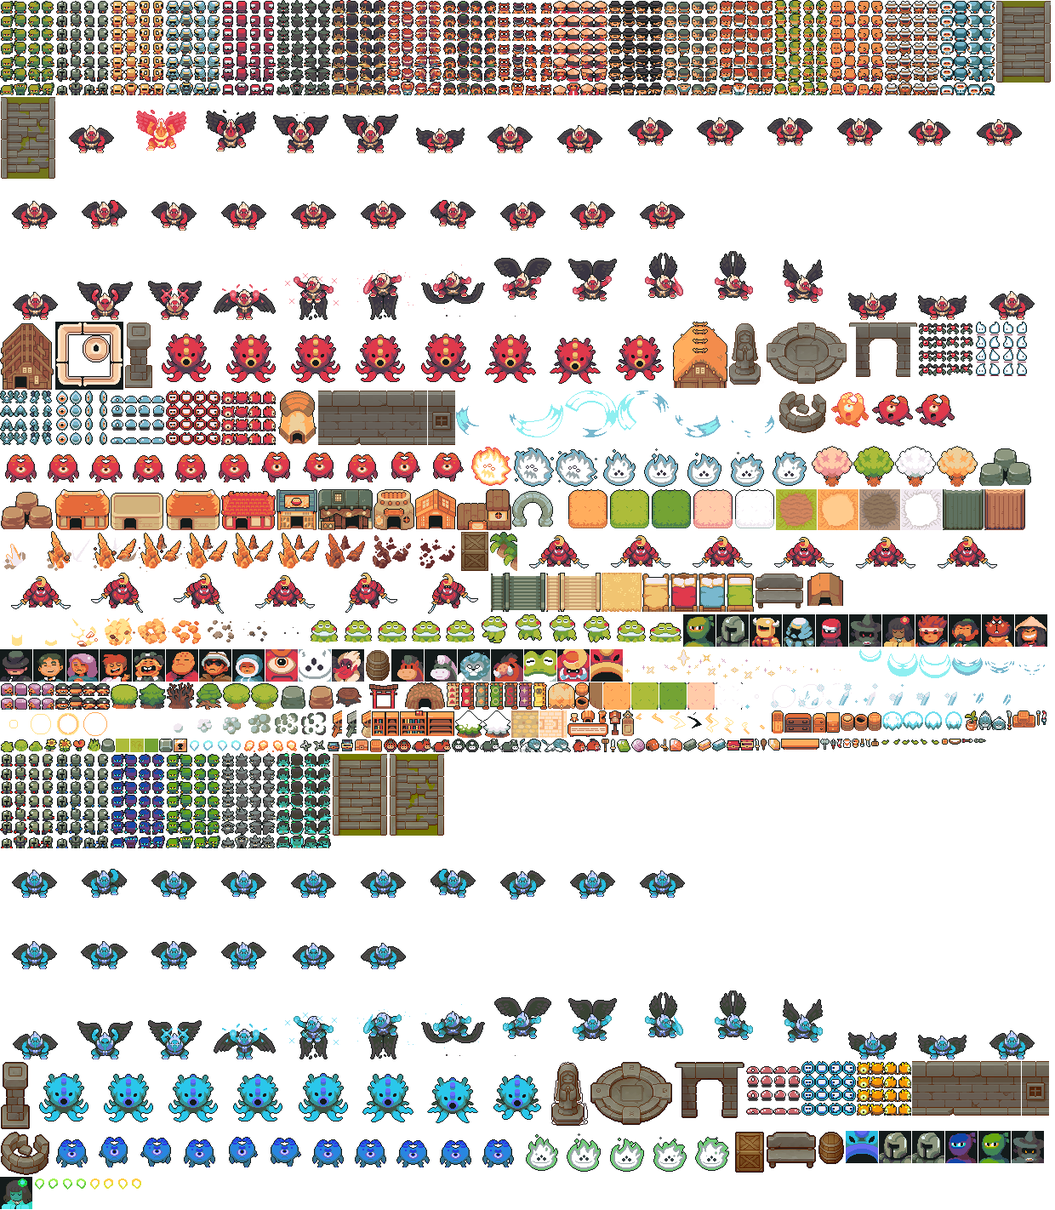
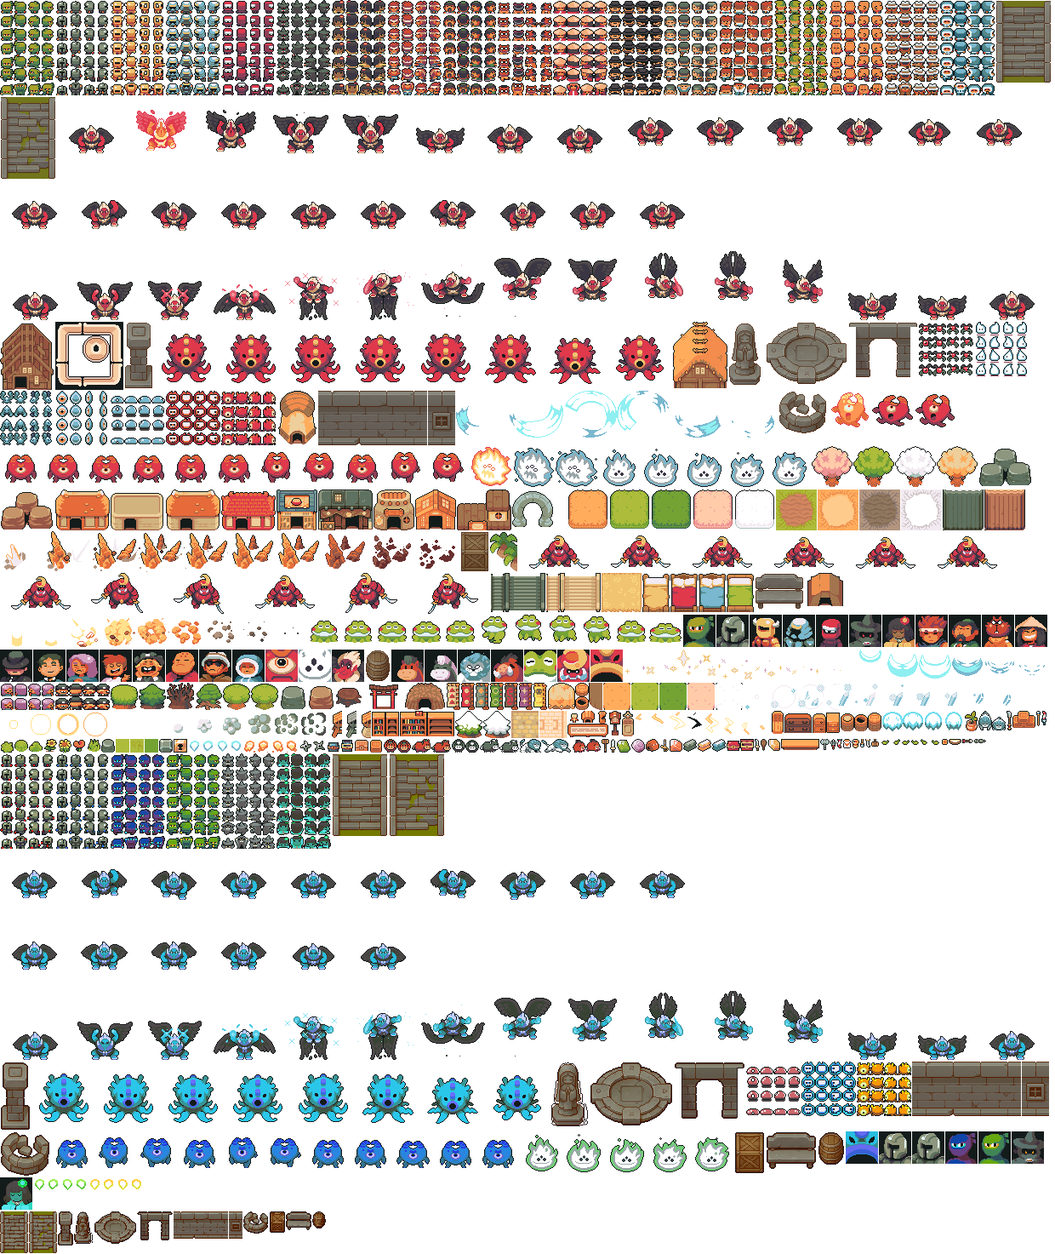
Cité : décors Cainos à l'échelle Ninja Adventure, rues et places pavées, statues et colonnes au pied des escaliers
Claude-Session: https://claude.ai/code/session_01HmK4HGKwe1XnWGQ1fbvQpK

diff --git a/index.html b/index.html
@@ -173,7 +173,7 @@ function cnv(w,h){const o=document.createElement('canvas');o.width=w;o.height=h;
 let seed=1;const srnd=()=>(seed=(seed*16807)%2147483647)/2147483647;
 
 /* ===== Images : Ninja Adventure (CC0) + kit d'interface ===== */
-const AT={"ch_NinjaGreen":[0,0,64,112],"ch_Knight":[65,0,64,112],"ch_KnightGold":[130,0,64,112],"ch_NinjaBlue":[195,0,64,112],"ch_NinjaRed":[260,0,64,112],"ch_NinjaMageBlack":[325,0,64,112],"ch_Princess":[390,0,64,112],"ch_Hunter":[455,0,64,112],"ch_Monk":[520,0,64,112],"ch_MaskRacoon":[585,0,64,112],"ch_Samurai":[650,0,64,112],"ch_Noble":[715,0,64,112],"ch_OldMan":[780,0,64,112],"ch_Boy":[845,0,64,112],"ch_ManGreen":[910,0,64,112],"ch_Monk2":[975,0,64,112],"ch_Inspector":[1040,0,64,112],"ch_Eskimo":[1105,0,64,112],"c_stairs":[390,885,66,98],"c_stairs_m":[457,885,66,98],"bo_TenguRed_Hit":[67,113,656,82],"bo_TenguRed_Idle":[724,113,492,82],"bo_TenguRed_Walk":[0,212,820,82],"bo_TenguRed_Attack":[0,295,1230,82],"h_temple":[0,378,64,80],"int_wall":[65,378,80,80],"c_pillar":[0,1247,36,81],"bo_Squid_Idle":[181,378,304,79],"bo_Squid_Walk":[486,378,304,79],"h_big":[791,378,64,78],"c_statue":[647,1247,45,77],"c_fountain":[693,1247,98,76],"c_arch":[792,1247,84,68],"mo_SpiderRed":[1080,378,64,64],"mo_Spirit":[1145,378,64,64],"mo_BlueBat":[0,459,64,64],"mo_Eye":[65,459,64,64],"mo_Slime":[130,459,64,64],"mo_Skull":[195,459,64,64],"mo_Cyclope":[260,459,64,64],"h_dome":[325,459,48,64],"c_wall":[1072,1247,128,64],"c_wallwin":[1201,1247,32,64],"fx_circ":[536,459,378,55],"c_well":[0,1329,59,53],"bo_DemonCyclop_Hit":[973,459,150,50],"bo_DemonCyclop_Idle":[0,524,250,50],"bo_DemonCyclop_Walk":[251,524,300,50],"bo_GiantSpirit_Hit":[552,524,150,50],"bo_GiantSpirit_Idle":[703,524,250,50],"bigtree_pink":[954,524,48,48],"bigtree_green":[1003,524,48,48],"bigtree_white":[1052,524,48,48],"bigtree_orange":[1101,524,48,48],"rocks_grey":[1150,524,64,48],"rocks_brown":[0,575,64,48],"h_orange":[65,575,64,48],"h_beige":[130,575,64,48],"h_orange2":[195,575,64,48],"h_red":[260,575,64,48],"h_teal":[325,575,48,48],"h_green":[374,575,64,48],"h_kiln":[439,575,48,48],"h_wood":[488,575,48,48],"h_wood2":[537,575,64,48],"arch":[602,575,64,48],"f_orange9":[667,575,48,48],"f_lgreen9":[716,575,48,48],"f_dgreen9":[765,575,48,48],"f_pink9":[814,575,48,48],"f_white9":[863,575,48,48],"road9":[912,575,48,48],"sand9":[961,575,48,48],"cave9":[1010,575,48,48],"snow9":[1059,575,48,48],"cliff_g":[1108,575,48,48],"cliff_o":[1157,575,48,48],"fx_spike":[0,624,540,48],"c_crate":[863,1329,36,50],"palm":[576,624,32,48],"bo_Samurai_Idle":[609,624,576,48],"bo_Samurai_Walk":[0,673,576,48],"stairs_g":[577,673,64,46],"stairs_w":[642,673,64,46],"f_rug":[707,673,47,46],"f_bed_y":[755,673,32,46],"f_bed_r":[788,673,32,46],"f_bed_b":[821,673,32,46],"f_bed_g":[854,673,32,46],"c_bench":[900,1329,60,45],"cave":[946,673,48,40],"fx_expl":[0,722,360,40],"bo_Frog_Idle":[361,722,200,40],"bo_Frog_Jump":[562,722,240,40],"fc_NinjaGreen":[803,722,38,38],"fc_Knight":[842,722,38,38],"fc_KnightGold":[881,722,38,38],"fc_NinjaBlue":[920,722,38,38],"fc_NinjaRed":[959,722,38,38],"fc_NinjaMageBlack":[998,722,38,38],"fc_Princess":[1037,722,38,38],"fc_Hunter":[1076,722,38,38],"fc_Monk":[1115,722,38,38],"fc_MaskRacoon":[1154,722,38,38],"fc_Samurai":[1193,722,38,38],"fc_Noble":[0,763,38,38],"fc_OldMan":[39,763,38,38],"fc_OldWoman":[78,763,38,38],"fc_Boy":[117,763,38,38],"fc_Child":[156,763,38,38],"fc_Monk2":[195,763,38,38],"fc_Inspector":[234,763,38,38],"fc_Eskimo":[273,763,38,38],"bo_DemonCyclop_Faceset":[312,763,38,38],"bo_GiantSpirit_Faceset":[351,763,38,38],"bo_TenguRed_Faceset":[390,763,38,38],"c_pot":[961,1329,32,40],"fc_horse":[460,763,38,38],"fc_horseb":[499,763,38,38],"fc_lion":[538,763,38,38],"fc_boar":[577,763,38,38],"bo_Frog_Faceset":[616,763,38,38],"bo_Samurai_Faceset":[655,763,38,38],"bo_Squid_Faceset":[694,763,38,38],"fx_spark":[733,763,270,35],"fx_arc":[1004,763,228,34],"ch_OldWoman":[0,802,64,32],"ch_Child":[65,802,64,32],"tree_round":[130,802,32,32],"tree_pine":[163,802,32,32],"tree_dead":[196,802,32,32],"tree_trunk":[229,802,32,32],"tree_green2":[262,802,32,32],"tree_green3":[295,802,32,32],"rock_grey":[328,802,32,32],"rock_brown":[361,802,32,32],"stump":[394,802,32,32],"torii":[427,802,48,32],"hut":[476,802,48,32],"banner0":[525,802,16,32],"banner1":[542,802,16,32],"banner2":[559,802,16,32],"banner3":[576,802,16,32],"banner4":[593,802,16,32],"banner5":[610,802,16,32],"banner6":[627,802,16,32],"pots":[644,802,64,32],"f_orange":[709,802,32,32],"f_lgreen":[742,802,32,32],"f_dgreen":[775,802,32,32],"f_pink":[808,802,32,32],"f_white":[841,802,32,32],"fx_ice":[874,802,320,32],"fx_circle":[0,835,192,32],"fx_smoke":[193,835,192,32],"tower_w":[386,835,16,32],"tower_g":[403,835,16,32],"tower_b":[420,835,16,32],"f_books":[437,835,32,32],"f_shelf":[470,835,64,32],"tree_snow":[535,835,32,32],"pine_snow":[568,835,32,32],"int_floor":[601,835,32,32],"int_floor2":[634,835,32,32],"f_bench":[667,835,48,31],"f_lamp":[716,835,14,30],"f_clock":[731,835,14,30],"fx_thunder":[746,835,160,28],"f_wardrobe":[907,835,14,27],"f_drawer":[922,835,32,26],"f_cabinet":[955,835,32,26],"barrels":[988,835,48,24],"pr_big":[1037,835,96,24],"f_plant":[1134,835,15,24],"m_lion":[1150,835,32,23],"ic_Lance":[1183,835,6,23],"f_sofa":[1190,835,27,20],"ic_MagicWand":[1218,835,5,18],"ic_Sword":[1224,835,6,17],"bush1":[0,868,16,16],"bush2":[17,868,16,16],"bush3":[34,868,16,16],"flower_y":[51,868,16,16],"flower_o":[68,868,16,16],"flower_r":[85,868,16,16],"grass_tuft":[102,868,16,16],"rock_grey_s":[119,868,16,16],"grass":[136,868,16,16],"grass2":[153,868,16,16],"grassd":[170,868,16,16],"block":[187,868,16,16],"lockdoor":[204,868,16,16],"pr_energy":[221,868,64,16],"pr_fire":[286,868,64,16],"pr_shuri":[351,868,32,16],"i_chest":[384,868,32,16],"f_chest":[417,868,16,16],"f_jar":[434,868,16,16],"m_horse":[451,868,32,16],"m_horse_s":[484,868,46,16],"m_horseb":[531,868,32,16],"m_horseb_s":[564,868,46,16],"m_lion_s":[611,868,60,16],"m_boar":[672,868,34,16],"ic_Hammer":[707,868,9,16],"ic_BigSword":[717,868,7,16],"ic_GemGreen":[725,868,16,16],"ic_GemPurple":[742,868,16,16],"ic_Bag":[759,868,16,16],"ic_Rapier":[776,868,10,15],"ic_GemRed":[787,868,15,15],"ic_BarIron":[803,868,16,15],"ic_BarGold":[820,868,16,15],"ic_BarMithril":[837,868,16,15],"i_bigchest":[854,868,32,14],"ic_Katana":[887,868,6,14],"ic_Club":[894,868,8,14],"ic_GemYellow":[903,868,14,14],"f_table":[918,868,45,13],"ic_Axe":[964,868,11,13],"ic_Sai":[976,868,7,13],"w_sword":[984,868,6,11],"i_life":[991,868,9,11],"ic_Cup":[1001,868,9,11],"w_wand":[1011,868,5,10],"w_katana":[1017,868,6,10],"w_hammer":[1024,868,9,9],"p_leaf":[1034,868,72,7],"i_coin":[1107,868,7,7],"ic_Bow":[1115,868,15,7],"pr_arrow":[1131,868,13,5],"pr_kunai":[1145,868,14,5],"ch_KnightRuby":[0,885,64,112],"ch_KnightAzur":[65,885,64,112],"ch_NinjaGreenPourpre":[130,885,64,112],"ch_NinjaGreenCendre":[195,885,64,112],"ch_NinjaMageBlackIvoire":[260,885,64,112],"ch_PrincessJade":[325,885,64,112],"bo_TenguRed_Walk_v":[0,998,820,82],"bo_TenguRed_Idle_v":[0,1081,492,82],"bo_TenguRed_Attack_v":[0,1164,1230,82],"bo_Squid_Idle_ice":[37,1247,304,79],"bo_Squid_Walk_ice":[342,1247,304,79],"mo_Slime_e":[877,1247,64,64],"mo_Skull_e":[942,1247,64,64],"mo_Cyclope_e":[1007,1247,64,64],"bo_DemonCyclop_Walk_v":[60,1329,300,50],"bo_DemonCyclop_Idle_v":[361,1329,250,50],"bo_GiantSpirit_Idle_v":[612,1329,250,50],"fc_Squid_ice":[994,1329,38,38],"fc_KnightRuby":[1033,1329,38,38],"fc_KnightAzur":[1072,1329,38,38],"fc_NinjaGreenPourpre":[1111,1329,38,38],"fc_NinjaGreenCendre":[1150,1329,38,38],"fc_NinjaMageBlackIvoire":[1189,1329,38,38],"fc_PrincessJade":[0,1383,38,38],"pr_poison":[39,1383,64,16],"pr_para":[104,1383,64,16]};
+const AT={"ch_NinjaGreen":[0,0,64,112],"ch_Knight":[65,0,64,112],"ch_KnightGold":[130,0,64,112],"ch_NinjaBlue":[195,0,64,112],"ch_NinjaRed":[260,0,64,112],"ch_NinjaMageBlack":[325,0,64,112],"ch_Princess":[390,0,64,112],"ch_Hunter":[455,0,64,112],"ch_Monk":[520,0,64,112],"ch_MaskRacoon":[585,0,64,112],"ch_Samurai":[650,0,64,112],"ch_Noble":[715,0,64,112],"ch_OldMan":[780,0,64,112],"ch_Boy":[845,0,64,112],"ch_ManGreen":[910,0,64,112],"ch_Monk2":[975,0,64,112],"ch_Inspector":[1040,0,64,112],"ch_Eskimo":[1105,0,64,112],"c_stairs":[390,885,66,98],"c_stairs_m":[457,885,66,98],"bo_TenguRed_Hit":[67,113,656,82],"bo_TenguRed_Idle":[724,113,492,82],"bo_TenguRed_Walk":[0,212,820,82],"bo_TenguRed_Attack":[0,295,1230,82],"h_temple":[0,378,64,80],"int_wall":[65,378,80,80],"c_pillar":[0,1247,36,81],"bo_Squid_Idle":[181,378,304,79],"bo_Squid_Walk":[486,378,304,79],"h_big":[791,378,64,78],"c_statue":[647,1247,45,77],"c_fountain":[693,1247,98,76],"c_arch":[792,1247,84,68],"mo_SpiderRed":[1080,378,64,64],"mo_Spirit":[1145,378,64,64],"mo_BlueBat":[0,459,64,64],"mo_Eye":[65,459,64,64],"mo_Slime":[130,459,64,64],"mo_Skull":[195,459,64,64],"mo_Cyclope":[260,459,64,64],"h_dome":[325,459,48,64],"c_wall":[1072,1247,128,64],"c_wallwin":[1201,1247,32,64],"fx_circ":[536,459,378,55],"c_well":[0,1329,59,53],"bo_DemonCyclop_Hit":[973,459,150,50],"bo_DemonCyclop_Idle":[0,524,250,50],"bo_DemonCyclop_Walk":[251,524,300,50],"bo_GiantSpirit_Hit":[552,524,150,50],"bo_GiantSpirit_Idle":[703,524,250,50],"bigtree_pink":[954,524,48,48],"bigtree_green":[1003,524,48,48],"bigtree_white":[1052,524,48,48],"bigtree_orange":[1101,524,48,48],"rocks_grey":[1150,524,64,48],"rocks_brown":[0,575,64,48],"h_orange":[65,575,64,48],"h_beige":[130,575,64,48],"h_orange2":[195,575,64,48],"h_red":[260,575,64,48],"h_teal":[325,575,48,48],"h_green":[374,575,64,48],"h_kiln":[439,575,48,48],"h_wood":[488,575,48,48],"h_wood2":[537,575,64,48],"arch":[602,575,64,48],"f_orange9":[667,575,48,48],"f_lgreen9":[716,575,48,48],"f_dgreen9":[765,575,48,48],"f_pink9":[814,575,48,48],"f_white9":[863,575,48,48],"road9":[912,575,48,48],"sand9":[961,575,48,48],"cave9":[1010,575,48,48],"snow9":[1059,575,48,48],"cliff_g":[1108,575,48,48],"cliff_o":[1157,575,48,48],"fx_spike":[0,624,540,48],"c_crate":[863,1329,36,50],"palm":[576,624,32,48],"bo_Samurai_Idle":[609,624,576,48],"bo_Samurai_Walk":[0,673,576,48],"stairs_g":[577,673,64,46],"stairs_w":[642,673,64,46],"f_rug":[707,673,47,46],"f_bed_y":[755,673,32,46],"f_bed_r":[788,673,32,46],"f_bed_b":[821,673,32,46],"f_bed_g":[854,673,32,46],"c_bench":[900,1329,60,45],"cave":[946,673,48,40],"fx_expl":[0,722,360,40],"bo_Frog_Idle":[361,722,200,40],"bo_Frog_Jump":[562,722,240,40],"fc_NinjaGreen":[803,722,38,38],"fc_Knight":[842,722,38,38],"fc_KnightGold":[881,722,38,38],"fc_NinjaBlue":[920,722,38,38],"fc_NinjaRed":[959,722,38,38],"fc_NinjaMageBlack":[998,722,38,38],"fc_Princess":[1037,722,38,38],"fc_Hunter":[1076,722,38,38],"fc_Monk":[1115,722,38,38],"fc_MaskRacoon":[1154,722,38,38],"fc_Samurai":[1193,722,38,38],"fc_Noble":[0,763,38,38],"fc_OldMan":[39,763,38,38],"fc_OldWoman":[78,763,38,38],"fc_Boy":[117,763,38,38],"fc_Child":[156,763,38,38],"fc_Monk2":[195,763,38,38],"fc_Inspector":[234,763,38,38],"fc_Eskimo":[273,763,38,38],"bo_DemonCyclop_Faceset":[312,763,38,38],"bo_GiantSpirit_Faceset":[351,763,38,38],"bo_TenguRed_Faceset":[390,763,38,38],"c_pot":[961,1329,32,40],"fc_horse":[460,763,38,38],"fc_horseb":[499,763,38,38],"fc_lion":[538,763,38,38],"fc_boar":[577,763,38,38],"bo_Frog_Faceset":[616,763,38,38],"bo_Samurai_Faceset":[655,763,38,38],"bo_Squid_Faceset":[694,763,38,38],"fx_spark":[733,763,270,35],"fx_arc":[1004,763,228,34],"ch_OldWoman":[0,802,64,32],"ch_Child":[65,802,64,32],"tree_round":[130,802,32,32],"tree_pine":[163,802,32,32],"tree_dead":[196,802,32,32],"tree_trunk":[229,802,32,32],"tree_green2":[262,802,32,32],"tree_green3":[295,802,32,32],"rock_grey":[328,802,32,32],"rock_brown":[361,802,32,32],"stump":[394,802,32,32],"torii":[427,802,48,32],"hut":[476,802,48,32],"banner0":[525,802,16,32],"banner1":[542,802,16,32],"banner2":[559,802,16,32],"banner3":[576,802,16,32],"banner4":[593,802,16,32],"banner5":[610,802,16,32],"banner6":[627,802,16,32],"pots":[644,802,64,32],"f_orange":[709,802,32,32],"f_lgreen":[742,802,32,32],"f_dgreen":[775,802,32,32],"f_pink":[808,802,32,32],"f_white":[841,802,32,32],"fx_ice":[874,802,320,32],"fx_circle":[0,835,192,32],"fx_smoke":[193,835,192,32],"tower_w":[386,835,16,32],"tower_g":[403,835,16,32],"tower_b":[420,835,16,32],"f_books":[437,835,32,32],"f_shelf":[470,835,64,32],"tree_snow":[535,835,32,32],"pine_snow":[568,835,32,32],"int_floor":[601,835,32,32],"int_floor2":[634,835,32,32],"f_bench":[667,835,48,31],"f_lamp":[716,835,14,30],"f_clock":[731,835,14,30],"fx_thunder":[746,835,160,28],"f_wardrobe":[907,835,14,27],"f_drawer":[922,835,32,26],"f_cabinet":[955,835,32,26],"barrels":[988,835,48,24],"pr_big":[1037,835,96,24],"f_plant":[1134,835,15,24],"m_lion":[1150,835,32,23],"ic_Lance":[1183,835,6,23],"f_sofa":[1190,835,27,20],"ic_MagicWand":[1218,835,5,18],"ic_Sword":[1224,835,6,17],"bush1":[0,868,16,16],"bush2":[17,868,16,16],"bush3":[34,868,16,16],"flower_y":[51,868,16,16],"flower_o":[68,868,16,16],"flower_r":[85,868,16,16],"grass_tuft":[102,868,16,16],"rock_grey_s":[119,868,16,16],"grass":[136,868,16,16],"grass2":[153,868,16,16],"grassd":[170,868,16,16],"block":[187,868,16,16],"lockdoor":[204,868,16,16],"pr_energy":[221,868,64,16],"pr_fire":[286,868,64,16],"pr_shuri":[351,868,32,16],"i_chest":[384,868,32,16],"f_chest":[417,868,16,16],"f_jar":[434,868,16,16],"m_horse":[451,868,32,16],"m_horse_s":[484,868,46,16],"m_horseb":[531,868,32,16],"m_horseb_s":[564,868,46,16],"m_lion_s":[611,868,60,16],"m_boar":[672,868,34,16],"ic_Hammer":[707,868,9,16],"ic_BigSword":[717,868,7,16],"ic_GemGreen":[725,868,16,16],"ic_GemPurple":[742,868,16,16],"ic_Bag":[759,868,16,16],"ic_Rapier":[776,868,10,15],"ic_GemRed":[787,868,15,15],"ic_BarIron":[803,868,16,15],"ic_BarGold":[820,868,16,15],"ic_BarMithril":[837,868,16,15],"i_bigchest":[854,868,32,14],"ic_Katana":[887,868,6,14],"ic_Club":[894,868,8,14],"ic_GemYellow":[903,868,14,14],"f_table":[918,868,45,13],"ic_Axe":[964,868,11,13],"ic_Sai":[976,868,7,13],"w_sword":[984,868,6,11],"i_life":[991,868,9,11],"ic_Cup":[1001,868,9,11],"w_wand":[1011,868,5,10],"w_katana":[1017,868,6,10],"w_hammer":[1024,868,9,9],"p_leaf":[1034,868,72,7],"i_coin":[1107,868,7,7],"ic_Bow":[1115,868,15,7],"pr_arrow":[1131,868,13,5],"pr_kunai":[1145,868,14,5],"ch_KnightRuby":[0,885,64,112],"ch_KnightAzur":[65,885,64,112],"ch_NinjaGreenPourpre":[130,885,64,112],"ch_NinjaGreenCendre":[195,885,64,112],"ch_NinjaMageBlackIvoire":[260,885,64,112],"ch_PrincessJade":[325,885,64,112],"bo_TenguRed_Walk_v":[0,998,820,82],"bo_TenguRed_Idle_v":[0,1081,492,82],"bo_TenguRed_Attack_v":[0,1164,1230,82],"bo_Squid_Idle_ice":[37,1247,304,79],"bo_Squid_Walk_ice":[342,1247,304,79],"mo_Slime_e":[877,1247,64,64],"mo_Skull_e":[942,1247,64,64],"mo_Cyclope_e":[1007,1247,64,64],"bo_DemonCyclop_Walk_v":[60,1329,300,50],"bo_DemonCyclop_Idle_v":[361,1329,250,50],"bo_GiantSpirit_Idle_v":[612,1329,250,50],"fc_Squid_ice":[994,1329,38,38],"fc_KnightRuby":[1033,1329,38,38],"fc_KnightAzur":[1072,1329,38,38],"fc_NinjaGreenPourpre":[1111,1329,38,38],"fc_NinjaGreenCendre":[1150,1329,38,38],"fc_NinjaMageBlackIvoire":[1189,1329,38,38],"fc_PrincessJade":[0,1383,38,38],"pr_poison":[39,1383,64,16],"pr_para":[104,1383,64,16],"c_stairs_h":[0,1423,33,49],"c_stairs_m_h":[34,1423,33,49],"c_pillar_h":[68,1423,18,41],"c_statue_h":[87,1423,23,39],"c_fountain_h":[111,1423,49,38],"c_arch_h":[161,1423,42,34],"c_wall_h":[204,1423,64,32],"c_wallwin_h":[269,1423,16,32],"c_well_h":[286,1423,30,27],"c_crate_h":[317,1423,18,25],"c_bench_h":[336,1423,30,23],"c_pot_h":[367,1423,16,20]};
[1 lines of base64/hex data omitted]
 const ready=i=>i.complete&&i.naturalWidth>0;
 const tmpC=cnv(128,128),tmpX=tmpC.getContext('2d');
@@ -354,48 +354,60 @@ function grassBg(w,h,sd){const o=cnv(w,h),c=o.getContext('2d');seed=sd;
   for(let i=0;i<w*h/2200;i++){const n=['flower_y','flower_o','flower_r','grass_tuft','bush1','grass_tuft'][srnd()*6|0];sub(c,n,0,0,16,16,srnd()*w|0,srnd()*h|0)}
   return{o,c}}
 const TW=720,TH=1040;
-/* murs de soutènement en pierre (Cainos) : hauteur 64, escaliers de 66 de large */
-const CLIFFS=[{y:300,gaps:[[327,393]]},{y:640,gaps:[[87,153],[327,393],[567,633]]}];
+/* murs de soutènement (Cainos ramené à l'échelle Ninja Adventure : _h = demi-taille) : hauteur 32, escaliers de 33 */
+const CLIFFS=[{y:300,gaps:[[344,377]]},{y:640,gaps:[[104,137],[344,377],[584,617]]}];
 function castleBox(l){return l>=4?{w:250,h:90}:l>=3?{w:236,h:80}:l>=2?{w:110,h:52}:{w:52,h:50}}
-function pave(c,x,y,w,hh){c.fillStyle='#7d786c';c.fillRect(x,y,w,hh);seed=3;for(let yy=y;yy<y+hh;yy+=6)for(let xx=x+((yy-y)/6%2?-4:0);xx<x+w;xx+=9){const v=srnd();c.fillStyle=v<.33?'#b9b3a5':v<.66?'#a7a193':'#c7c1b2';c.fillRect(Math.max(x,xx),yy,Math.min(8,x+w-Math.max(x,xx)),5)}}
+/* pavés de la cité : dalles irrégulières, joints sombres */
+function pave(c,x,y,w,hh,sd){c.fillStyle='#6f695e';c.fillRect(x,y,w,hh);seed=sd||3;
+  for(let yy=y,r=0;yy<y+hh;yy+=7,r++)for(let xx=x-(r%2?5:0);xx<x+w;){const bw=8+(srnd()*5|0),v=srnd();const a=Math.max(x,xx),b=Math.min(x+w,xx+bw-1);
+    if(b>a){c.fillStyle=v<.3?'#a9a294':v<.6?'#9c9588':v<.9?'#b4ad9f':'#8e8a7c';c.fillRect(a,yy,b-a,Math.min(6,y+hh-yy));c.fillStyle='rgba(255,255,255,.12)';c.fillRect(a,yy,b-a,1)}xx+=bw}
+  c.fillStyle='rgba(0,0,0,.18)';c.fillRect(x,y,w,1);c.fillRect(x,y+hh-1,w,1);c.fillRect(x,y,1,hh);c.fillRect(x+w-1,y,1,hh)}
+function cityGrass(w,h,sd){const o=cnv(w,h),c=o.getContext('2d');seed=sd;
+  for(let y=0;y<h;y+=16)for(let x=0;x<w;x+=16)sub(c,srnd()<.85?'grass':'grass2',0,0,16,16,x,y);
+  for(let i=0;i<w*h/9000;i++){const n=['grass_tuft','flower_y','grass_tuft','flower_r'][srnd()*4|0];sub(c,n,0,0,16,16,srnd()*w|0,srnd()*h|0)}
+  return{o,c}}
 function stoneTower(c,x,y,h,roof){px(c,'rgba(0,0,0,.3)',x-8,y-1,18,3);px(c,'#4a4640',x-9,y-h-1,18,h+1);px(c,'#a39e92',x-8,y-h,16,h);for(let yy=y-h+5;yy<y;yy+=5)px(c,'#8a857a',x-8,yy,16,1);px(c,'#2e2a26',x-2,y-h+8,4,6);
   if(roof){for(let k=0;k<10;k+=2)px(c,k%4?roof:shade(roof,.8),x-10+k,y-h-2-k*1.2,20-k*2,3)}else for(let xx=x-9;xx<x+8;xx+=6){px(c,'#4a4640',xx,y-h-5,5,5);px(c,'#bdb8ab',xx+1,y-h-4,3,4)}}
 function crenWall(c,x0,x1,yb,h){const top=yb-h;px(c,'#4a4640',x0-1,top-1,x1-x0+2,h+2);px(c,'#a39e92',x0,top,x1-x0,h);
   for(let y=top+5;y<yb;y+=5)px(c,'#8a857a',x0,y,x1-x0,1);for(let y=top,r=0;y<yb;y+=5,r++)for(let x=x0+(r%2?4:0);x<x1;x+=8)px(c,'#8a857a',x,y,1,5);
   for(let x=x0;x<x1-3;x+=8){px(c,'#4a4640',x-1,top-5,6,6);px(c,'#bdb8ab',x,top-4,4,4)}px(c,'rgba(0,0,0,.25)',x0,yb,x1-x0,3)}
 function townBg(){
-  const {o,c}=grassBg(TW,TH,11);
-  const road=(x,y,w,h)=>tileFill(c,'road9',16,16,x,y,w,h);
-  road(344,366,32,276);road(344,706,32,334);
-  road(80,592,560,16);road(0,942,648,16);
-  road(162,568,16,24);road(542,568,16,24);road(162,928,16,14);road(542,928,16,14);
-  road(112,606,16,36);road(592,606,16,36);road(112,706,16,238);road(592,706,16,238);
-  pave(c,256,760,208,140);
-  pave(c,200,244,320,58);
-  for(const cl of CLIFFS){c.fillStyle='rgba(0,0,0,.28)';c.fillRect(0,cl.y+62,TW,6);
-    for(let x=0,i=0;x<TW;i++){const win=i%4===2;sub(c,win?'c_wallwin':'c_wall',0,0,win?32:128,64,x,cl.y);x+=win?32:128}
-    for(const [a] of cl.gaps)sub(c,cl.y<500?'c_stairs':'c_stairs_m',0,0,66,98,a,cl.y-32)}
+  const {o,c}=cityGrass(TW,TH,11);
+  const st=(x,y,w,h)=>pave(c,x,y,w,h,x*7+y);
+  /* rues pavées */
+  st(336,300,48,340);st(336,672,48,368);
+  st(72,584,576,28);st(64,936,592,28);
+  st(152,560,32,24);st(536,560,32,24);st(152,920,32,16);st(536,920,32,16);
+  st(104,612,32,28);st(584,612,32,28);st(104,672,32,264);st(584,672,32,264);
+  /* place de la fontaine et parvis du château */
+  st(248,748,224,156);st(184,226,352,74);
+  for(const cl of CLIFFS){c.fillStyle='rgba(0,0,0,.28)';c.fillRect(0,cl.y+31,TW,4);
+    for(let x=0,i=0;x<TW;i++){const win=i%4===2;sub(c,win?'c_wallwin_h':'c_wall_h',0,0,win?16:64,32,x,cl.y);x+=win?16:64}
+    for(const [a] of cl.gaps)sub(c,cl.y<500?'c_stairs_h':'c_stairs_m_h',0,0,33,49,a,cl.y-16)}
   return o;
 }
 function buildTown(){
   const w={kind:'town',name:'',w:TW,h:TH,bgFn:townBg,bg:null,solids:[],trig:[],enemies:[],boss:null,props:[],folk:[]};
-  for(const cl of CLIFFS){let x0=0;for(const [a,b] of cl.gaps){w.solids.push({x:x0,y:cl.y+2,w:a-x0+4,h:60});w.solids.push({x:a,y:cl.y-30,w:5,h:92},{x:b-5,y:cl.y-30,w:5,h:92});x0=b-4}w.solids.push({x:x0,y:cl.y+2,w:TW-x0,h:60})}
+  for(const cl of CLIFFS){let x0=0;for(const [a,b] of cl.gaps){w.solids.push({x:x0,y:cl.y+1,w:a-x0+2,h:30});w.solids.push({x:a,y:cl.y-15,w:3,h:46},{x:b-3,y:cl.y-15,w:3,h:46});x0=b-2}w.solids.push({x:x0,y:cl.y+1,w:TW-x0,h:30})}
   for(const k in TSLOT){const [x,y]=TSLOT[k],l=S.bld[k];
     if(k==='hall'){const d=castleBox(l);w.solids.push({x:x-d.w/2,y:y-34,w:d.w,h:32})}
     else if(l&&bspr(k,l)!=='torii'){const d=bdim(k,l);w.solids.push({x:x-d.w/2+3,y:y-d.h*.55,w:d.w-6,h:d.h*.55-2})}
     w.trig.push({kind:'bld',k,x,y:y+8,r:18});}
-  const prop=(n,x,y,sol)=>{w.props.push({type:'spr',n,x,y});if(sol)w.solids.push({x:x-sol[0]/2,y:y-sol[1],w:sol[0],h:sol[1]})};
-  prop('c_fountain',360,834,[80,30]);prop('c_bench',290,880,[50,8]);prop('c_bench',430,880,[50,8]);prop('c_well',230,790,[40,14]);prop('c_crate',500,792,[26,10]);prop('c_pot',520,800,[16,8]);
-  prop('c_statue',306,404,[26,10]);prop('c_statue',414,404,[26,10]);
-  for(const x of [140,220,500,580])prop('c_pillar',x,632,[20,8]);
-  if(S.bld.hall>=3)for(const x of [216,264,456,504])prop('c_pillar',x,292,[20,8]);
-  if(S.bld.hall>=5){w.props.push({type:'spr',n:'c_arch',x:360,y:298});w.solids.push({x:319,y:288,w:14,h:10},{x:387,y:288,w:14,h:10})}
-  w.lamps=[];for(const y of [400,480,560,720,800,980])for(const x of [334,386])w.lamps.push({x,y});for(const x of [100,240,480,620])w.lamps.push({x,y:590},{x,y:940});
-  w.trig.push({kind:'exit',to:'plaine',x:360,y:1036,r:22,auto:true},{kind:'exit',to:'estates',x:6,y:950,r:20,auto:true});
+  const prop=(n,x,y,sol)=>{w.props.push({type:'spr',n:n+'_h',x,y});if(sol)w.solids.push({x:x-sol[0]/2,y:y-sol[1],w:sol[0],h:sol[1]})};
+  /* place : fontaine, bancs, puits, étals */
+  prop('c_fountain',360,840,[44,16]);prop('c_bench',318,882,[26,6]);prop('c_bench',402,882,[26,6]);prop('c_bench',318,800,[26,6]);prop('c_bench',402,800,[26,6]);
+  prop('c_well',270,770,[24,8]);prop('c_crate',452,772,[14,6]);prop('c_pot',466,782,[10,5]);prop('c_pot',440,784,[10,5]);
+  /* statues au pied de l'escalier du château, colonnes au pied des escaliers latéraux */
+  prop('c_statue',326,356,[16,6]);prop('c_statue',394,356,[16,6]);
+  for(const x of [96,145,576,625])prop('c_pillar',x,696,[12,5]);
+  prop('c_statue',326,700,[16,6]);prop('c_statue',394,700,[16,6]);
+  if(S.bld.hall>=3)for(const x of [200,232,488,520])prop('c_pillar',x,290,[12,5]);
+  if(S.bld.hall>=5){w.props.push({type:'spr',n:'c_arch_h',x:360,y:292});w.solids.push({x:339,y:284,w:8,h:8},{x:373,y:284,w:8,h:8})}
+  w.trig.push({kind:'exit',to:'field',x:360,y:1036,r:22,auto:true});
   seed=5;for(let i=0;i<150;i++){const x=srnd()*TW|0,y=srnd()*TH|0;
-    if(x>70&&x<650)continue;if(CLIFFS.some(c=>y>c.y-36&&y<c.y+72))continue;if(Math.abs(y-600)<24||Math.abs(y-950)<24)continue;
+    if(x>70&&x<650)continue;if(CLIFFS.some(c=>y>c.y-30&&y<c.y+50))continue;if(Math.abs(y-598)<24||Math.abs(y-950)<24)continue;
     w.props.push({type:'spr',n:['bigtree_green','tree_round','bigtree_pink','tree_pine','tree_green2'][srnd()*5|0],x,y});w.solids.push({x:x-4,y:y-4,w:8,h:5})}
-  for(const [x,y] of [[60,250],[660,250],[40,120],[680,140],[150,180],[570,180]]){w.props.push({type:'spr',n:'bigtree_pink',x,y});w.solids.push({x:x-4,y:y-4,w:8,h:5})}
+  for(const [x,y] of [[60,250],[660,250],[40,120],[680,140],[150,180],[570,180],[110,470],[610,470],[250,470],[470,470]]){w.props.push({type:'spr',n:'bigtree_pink',x,y});w.solids.push({x:x-4,y:y-4,w:8,h:5})}
   const n=S.bld.hall*3+S.bld.marche*2;for(let i=0;i<n;i++){const f={x:360,y:950,tx:0,ty:0,ter:i%3?1:0,look:FOLK[i%FOLK.length],sp:rnd(12,20),fx:1,fy:0};pickFolk(f);f.x=f.tx;f.y=f.ty;pickFolk(f);w.folk.push(f)}
   return w;
 }
@@ -403,7 +415,7 @@ function pickFolk(f){const r=Math.random();
   if(f.ter===0){if(r<.6){f.tx=rnd(90,630);f.ty=rnd(594,604)}else{f.tx=rnd(348,372);f.ty=rnd(380,630)}}
   else{if(r<.45){f.tx=rnd(80,640);f.ty=rnd(944,954)}else if(r<.75){f.tx=rnd(348,372);f.ty=rnd(712,1020)}else{f.tx=rnd(266,454);f.ty=rnd(862,896)}}}
 function drawCastle(c,x,y,l,t){
-  if(l<=1){spr(c,'h_wood',x,y+2);spr(c,'c_crate',x+40,y+2,{sc:.6});spr(c,'barrels',x-40,y+2,{sc:.7});return}
+  if(l<=1){spr(c,'h_wood',x,y+2);spr(c,'c_crate_h',x+40,y+2);spr(c,'barrels',x-40,y+2,{sc:.7});return}
   if(l===2){stoneTower(c,x-46,y,30,'#8a3b2e');stoneTower(c,x+46,y,30,'#8a3b2e');spr(c,'h_orange2',x,y+2);return}
   const W=castleBox(l).w;
   crenWall(c,x-W/2+8,x-34,y-4,24);crenWall(c,x+34,x+W/2-8,y-4,24);
@@ -415,8 +427,8 @@ function drawCastle(c,x,y,l,t){
 }
 function drawWalls(c){
   const hl=S.bld.hall;
-  if(hl>=3){crenWall(c,16,323,300,10);crenWall(c,397,704,300,10)}
-  if(hl>=4){crenWall(c,16,83,640,10);crenWall(c,157,323,640,10);crenWall(c,397,563,640,10);crenWall(c,637,704,640,10)}
+  if(hl>=3){crenWall(c,16,340,300,8);crenWall(c,381,704,300,8)}
+  if(hl>=4){crenWall(c,16,100,640,8);crenWall(c,141,340,640,8);crenWall(c,381,580,640,8);crenWall(c,621,704,640,8)}
   if(hl>=2){crenWall(c,8,16,1040,330);crenWall(c,704,712,1040,330);crenWall(c,8,328,1038,14);crenWall(c,392,712,1038,14);stoneTower(c,318,1042,34,hl>=4?'#3b5f8a':null);stoneTower(c,402,1042,34,hl>=4?'#3b5f8a':null)}
   else{px(c,'#6a4a2a',386,1010,2,14);px(c,'#a07a4a',378,1004,18,8)}
 }

diff --git a/sw.js b/sw.js
@@ -1,5 +1,5 @@
 // Réseau d'abord (toujours la dernière version), cache en secours hors ligne.
-const C='cendre-v6';
+const C='cendre-v7';
 self.addEventListener('install',e=>{self.skipWaiting();e.waitUntil(caches.open(C).then(c=>c.addAll(['./','index.html','atlas.png','manifest.webmanifest']).catch(()=>{})))});
 self.addEventListener('activate',e=>e.waitUntil(caches.keys().then(ks=>Promise.all(ks.filter(k=>k!==C).map(k=>caches.delete(k)))).then(()=>self.clients.claim())));
 self.addEventListener('fetch',e=>{const r=e.request;if(r.method!=='GET')return;const u=new URL(r.url);
